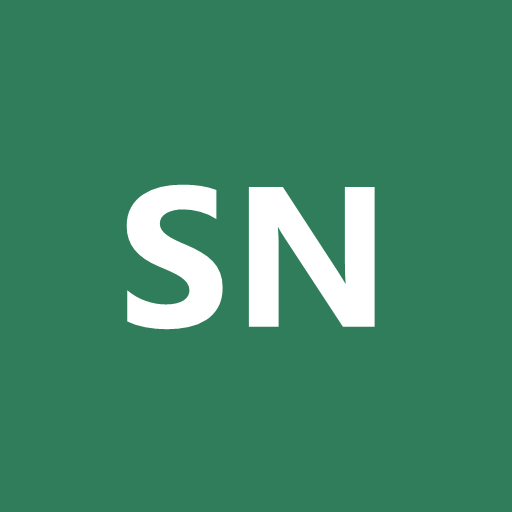
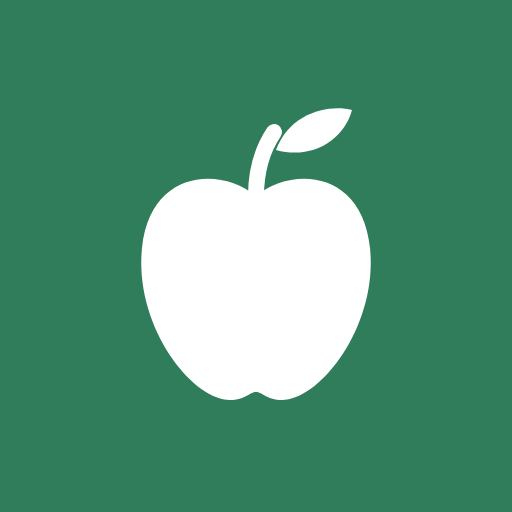
Ny ikon med symbol i stället för bokstäver
Claude-Session: https://claude.ai/code/session_01EcQQzGfsUvvo6xYobShx1L

Changed region(s): [[0.25, 0.1875, 0.75, 0.7812]]

diff --git a/version.js b/version.js
@@ -1,1 +1,1 @@
-self.APP_VERSION = '0.14.11';
+self.APP_VERSION = '0.14.12';
